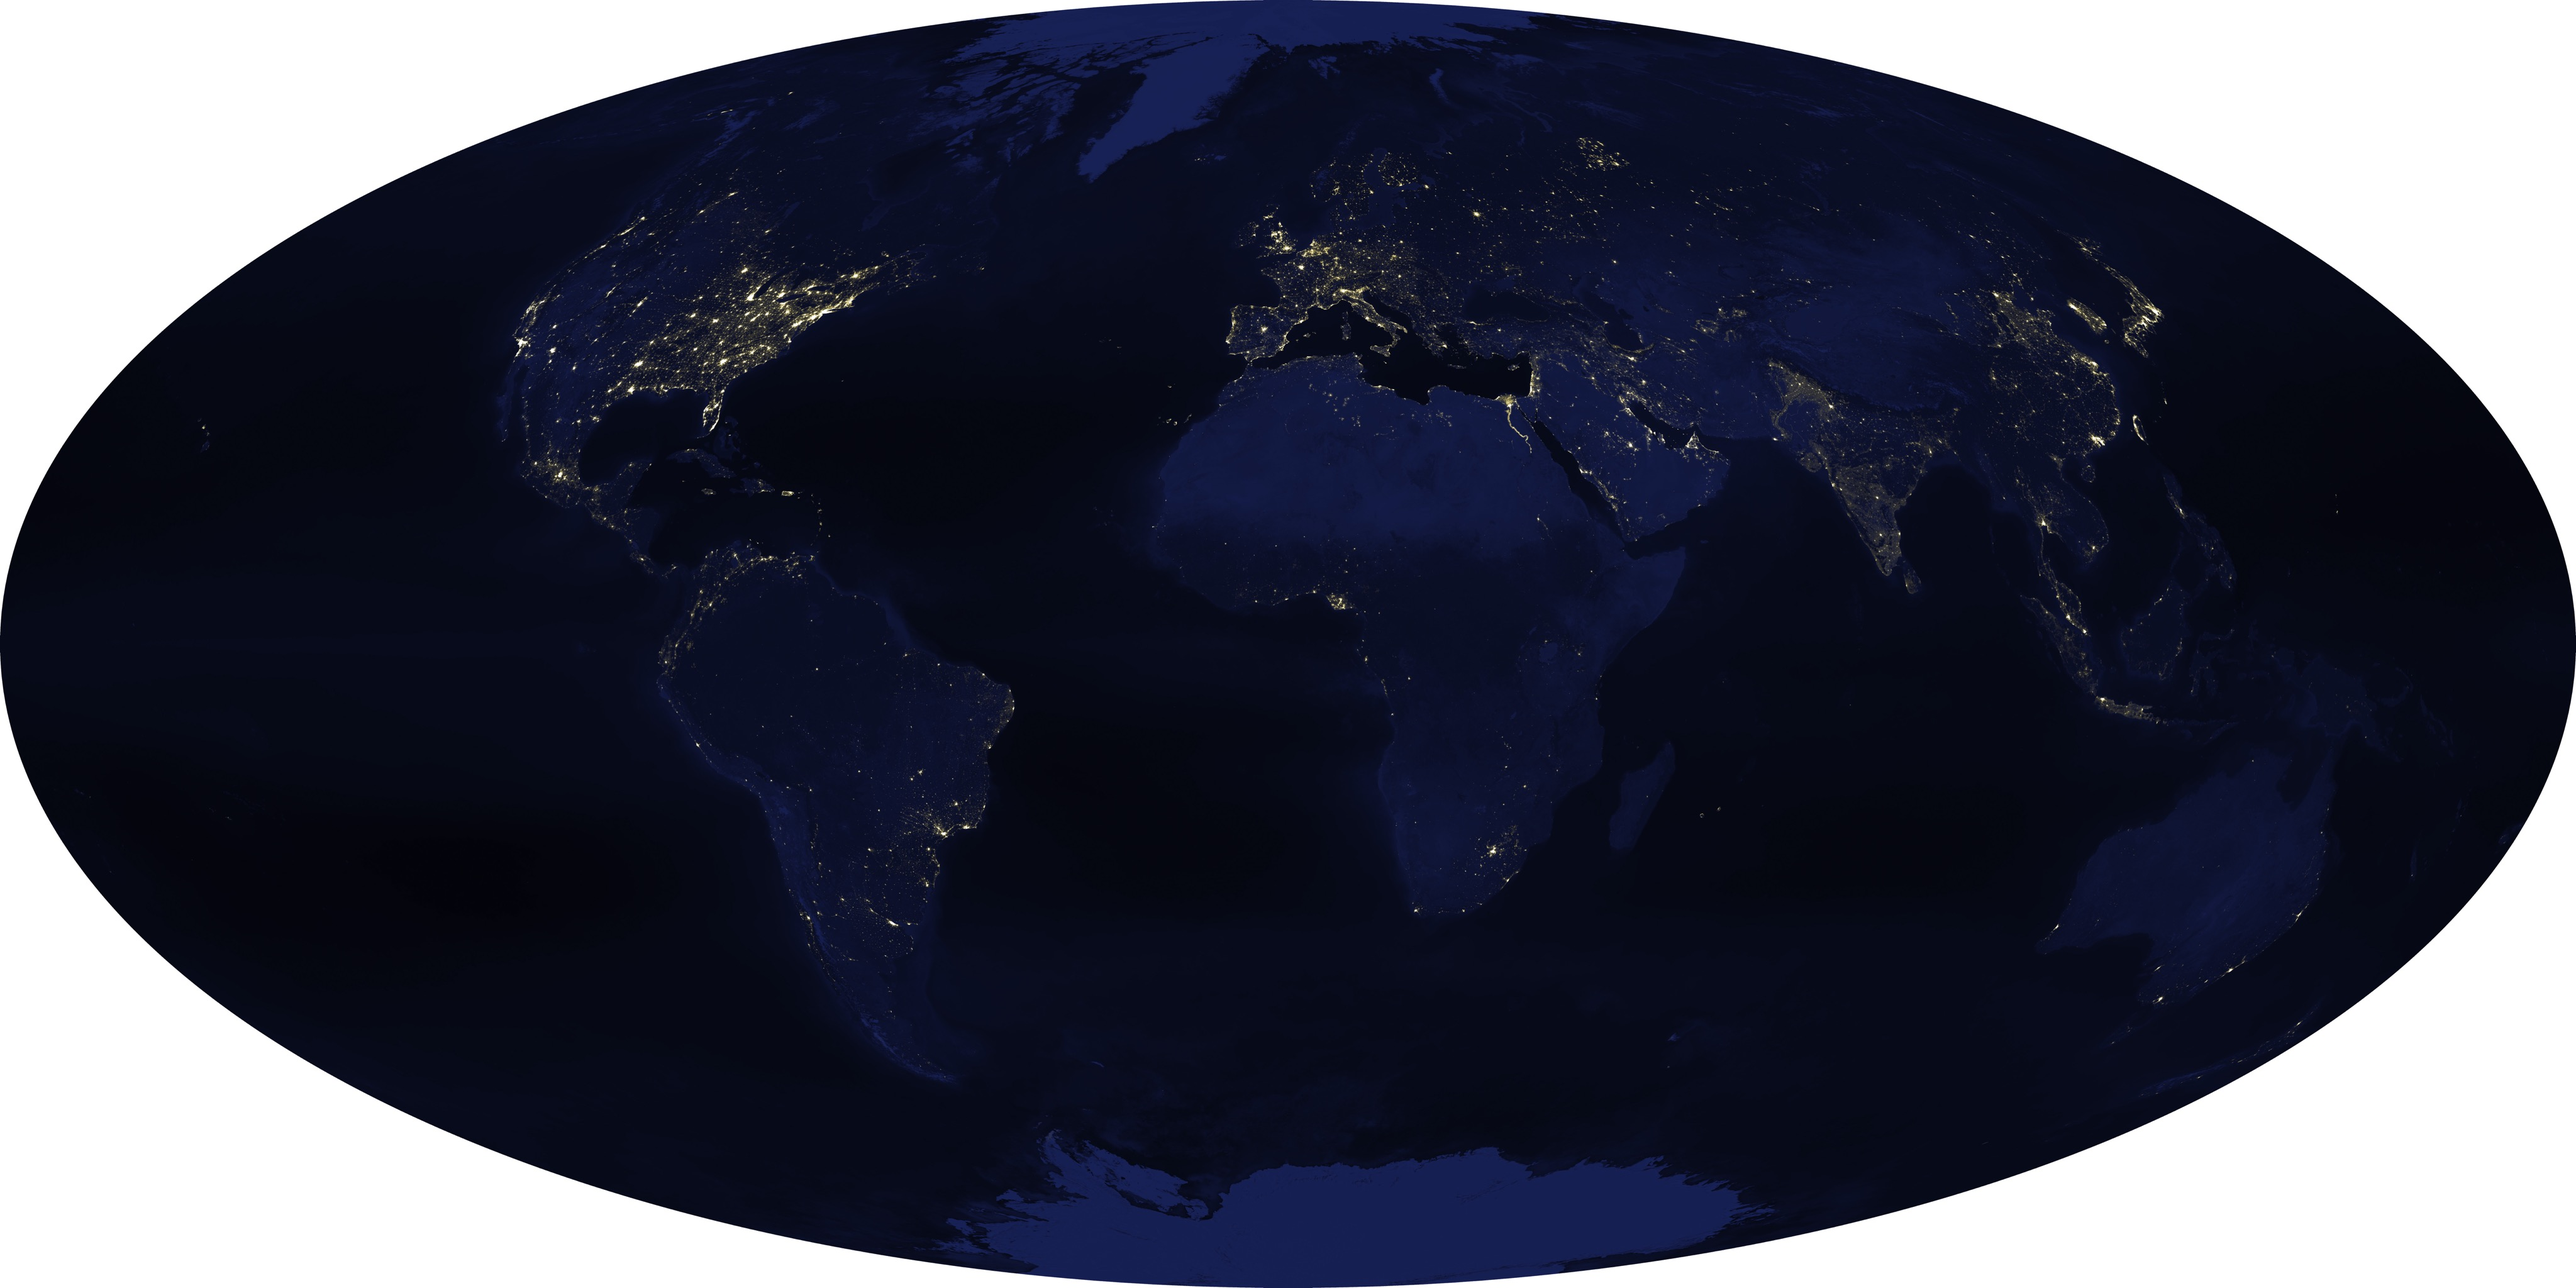
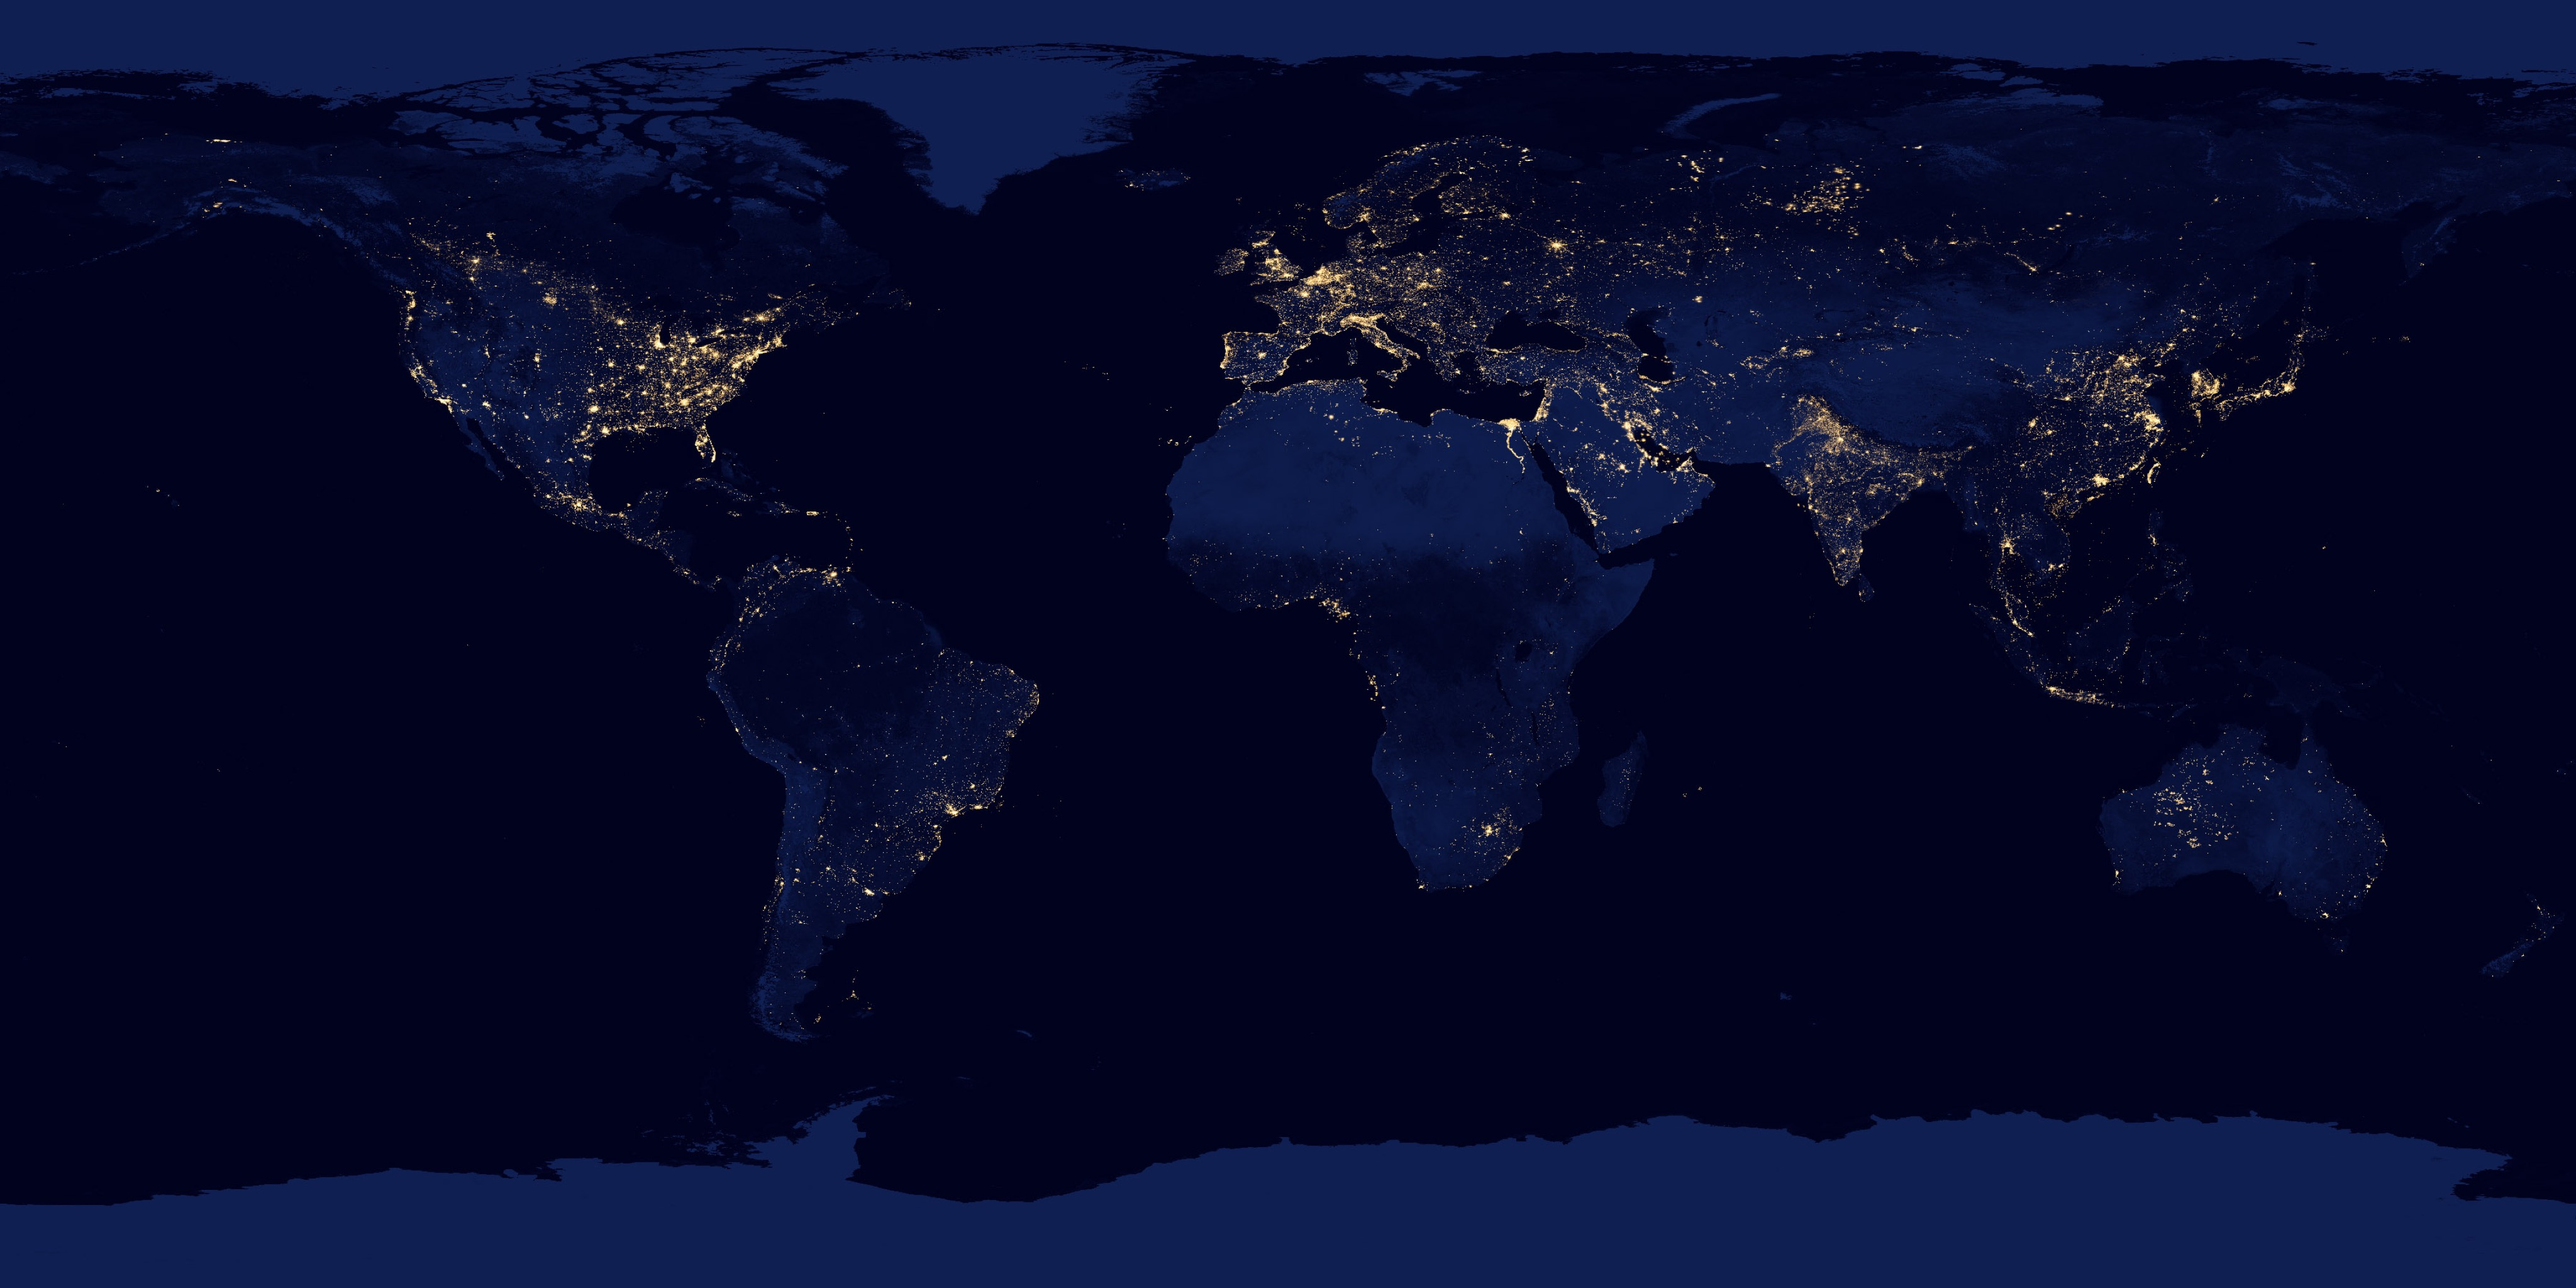
fixed

diff --git a/frontend/src/components/map/CesiumGlobe.tsx b/frontend/src/components/map/CesiumGlobe.tsx
@@ -21,7 +21,7 @@ const LABEL_COLOR = '#f8fafc';
 const ORBIT_COLOR = '#a855f7';
 const COVERAGE_COLOR = '#a855f7';
 const EARTH_DAY_TEXTURE_URL = '/images/earth/earth-day-blue-marble.jpg?v=20260321b';
-const EARTH_NIGHT_TEXTURE_URL = '/images/earth/earth-night-lights.jpg?v=20260321a';
+const EARTH_NIGHT_TEXTURE_URL = '/images/earth/earth-night-lights.jpg?v=20260321c';
 const EARTH_DAY_NIGHT_ALPHA = 0.12;
 const EARTH_LIGHTS_DAY_ALPHA = 0.0;
 const EARTH_LIGHTS_NIGHT_ALPHA = 1.0;

diff --git a/frontend/public/images/earth/README.md b/frontend/public/images/earth/README.md
@@ -3,6 +3,6 @@ Earth imagery sources
 - `earth-day-blue-marble.jpg` was derived from NASA Visible Earth Blue Marble Next Generation:
   https://eoimages.gsfc.nasa.gov/images/imagerecords/74000/74393/world.topo.200407.3x5400x2700.jpg
 - `earth-night-lights.jpg` was derived from NASA Visible Earth Earth at Night:
-  https://eoimages.gsfc.nasa.gov/images/imagerecords/36000/36008/lights_2003_lrg.jpg
+  https://eoimages.gsfc.nasa.gov/images/imagerecords/79000/79765/dnb_land_ocean_ice.2012.3600x1800.jpg
 
 Both files were resized to 4096x2048 for safer WebGL texture uploads in Cesium.
